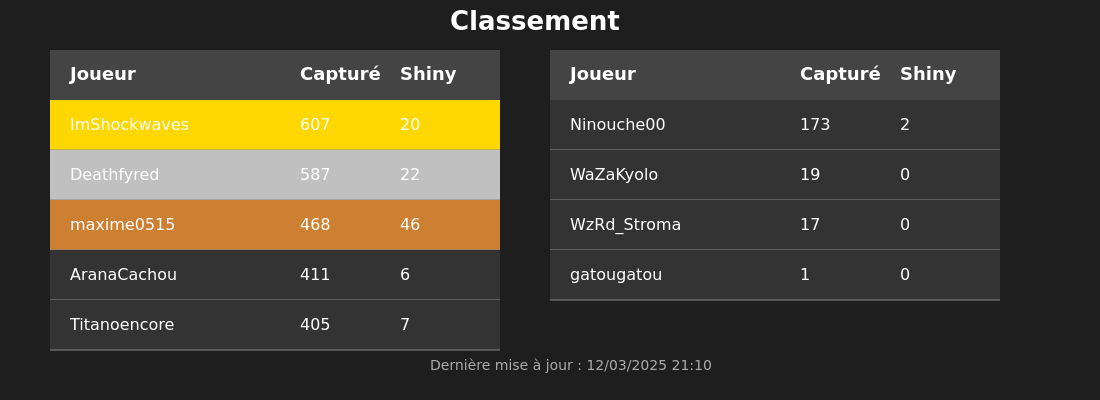
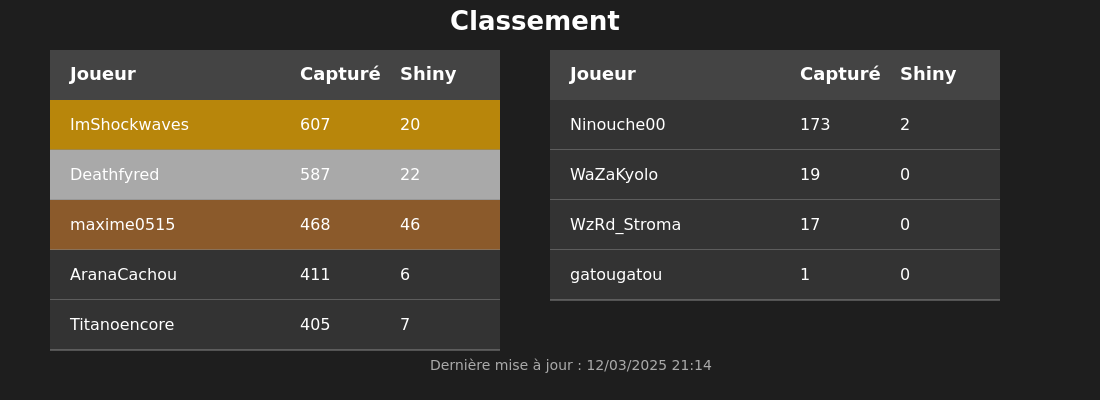
autoupdate 2025-03-12-20:14:32

Changed region(s): [[0.0309, 0.48, 0.4636, 0.63], [0.0309, 0.24, 0.4636, 0.39], [0.6182, 0.9, 0.6491, 0.93]]

diff --git a/index.ts b/index.ts
@@ -72,9 +72,9 @@ function generateLeaderboardImage(stats: any[]) {
     // Colors & Styling
     const bgColor = "#1e1e1e"; // Dark background
     const textColor = "#ffffff"; // White text
-    const highlightColor = "#FFD700"; // Gold for the top player
-    const silverColor = "#C0C0C0"; // Silver for the second player
-    const bronzeColor = "#CD7F32"; // Bronze for the third player
+    const highlightColor = "#B8860B"; // Gold for the top player
+    const silverColor = "#A9A9A9"; // Silver for the second player
+    const bronzeColor = "#8B5A2B"; // Bronze for the third player
 
     // Table settings
     const colWidth = width / 2 - 50; // Two columns
